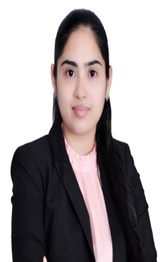
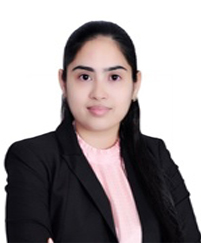
updated photos

diff --git a/components/committeesPage/data.js b/components/committeesPage/data.js
@@ -17,6 +17,7 @@ import rohini from "@/assets/faculty/rohini.jpeg"
 import manoj from "@/assets/faculty/manoj.jpg"
 import jyoteesh from "@/assets/faculty/jyoteesh.jpg"
 import indu from "@/assets/faculty/indu.jpg"
+import divya from "@/assets/faculty/divya.jpg"
 
 export const cheifPatron = [
     {
@@ -660,7 +661,7 @@ export const organizingCommittee =  [
                 name: 'Dr. Divya Punia',
                 designation: 'Postdoctoral Researcher',
                 affiliation: { line1: 'Dept of CSE, NIT Delhi', line2: '' },
-                photo: profile
+                photo: divya
             },
             {
                 name: 'Dr. Rohini Mahajan',
